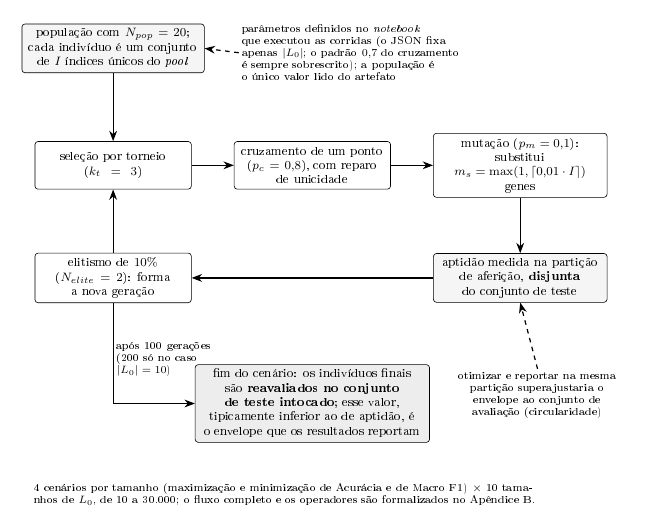
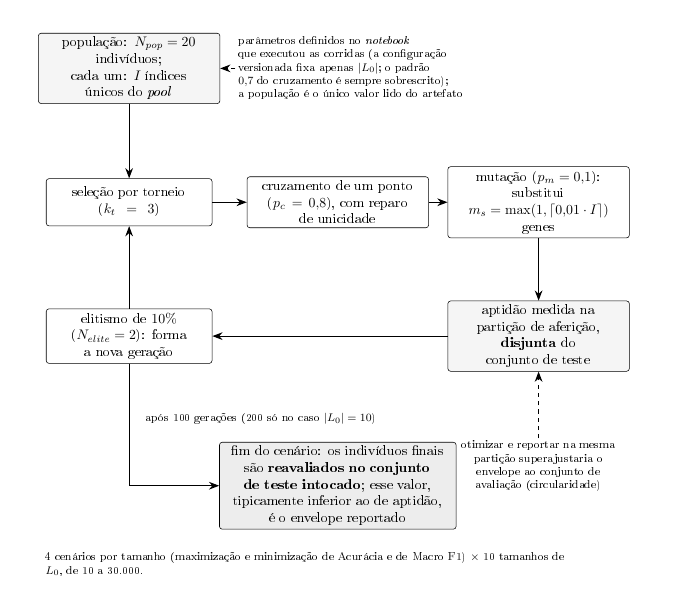
Apêndice B: passe de excelência (autocontido + figura do laço em corpo 12)
Ordem do autor, em loop até excelência acadêmica (figura + conteúdo +
fluidez + compreensão + rigor).

a2-ag/texto.tex reescrito: autocontido (sem refs a seções da tese, sem
individual_id, sem 'decisão D-002', sem nomes de formato de arquivo;
anti-circularidade explicada em linha, não referenciada); Formulação em
prosa contínua; proveniência consolidada em preâmbulo único preservando a
tripartição do laudo (notebook define; população e gerações conferidas
contra artefatos; população sem fonte de configuração); título com L_0 em
matemática; travessões pareados convertidos (R1); números conferidos
contra o canônico (2.000/4.000; 18,82/19,20; 30x40; 4 cenários x 10
tamanhos 10-30.000). Figura do laço inserida (fig:ap-ag-laco).

ACHADO SISTÊMICO: prévias da série eram em corpo 10; no corpo real da
tese (ppginf/book 12pt) o esq-ag-envelope quebrava — REDESENHADO para
12pt (larguras +25%, rótulo de saída realocado; apêndice completo
compila com 0 erros, overfull 0,7pt). O esq-lce do Apêndice A (já na
main) tinha a fórmula transbordando em 12pt — corrigido (58->64mm).
Esquemas 1/2/4/5 e drisl seguem calibrados em corpo 10: re-verificar em
12pt antes de inserir (pendência na NOTA). Prévias dos dois esquemas
inseridos regeneradas em corpo 12.

Claude-Session: https://claude.ai/code/session_01XdLdLTUXQGvJT9rjXrz2Gq

Changed region(s): [[0.0303, 0.2415, 0.9394, 0.966], [0.0303, 0.0302, 0.697, 0.1811]]

diff --git a/3-metodo/esquemas-propostos/esq-ag-envelope.tex b/3-metodo/esquemas-propostos/esq-ag-envelope.tex
@@ -1,69 +1,68 @@
 % ============================================================================
-% ESQUEMA PROPOSTO (banca, sugestão — não mergeado): o envelope por algoritmo
-% genético (Seção sec:metodo-l0-ag) como laço evolutivo + saída com
-% anti-circularidade. A prosa da seção carrega o laço inteiro em um
-% parágrafo; a figura o desdobra: população -> torneio -> cruzamento ->
-% mutação -> aptidão (partição de aferição) -> elitismo -> repete; ao fim,
-% reavaliação no teste intocado = o envelope reportado.
-%
-% Uso no Cap. 3 (dentro de um ambiente figure):
+% ESQUEMA PROPOSTO (banca): o envelope por algoritmo genético como laço
+% evolutivo + saída com anti-circularidade. Inserido no APÊNDICE B
+% (a2-ag/texto.tex) por ordem do autor (2026-08-23), dentro de figure:
 %   \input{3-metodo/esquemas-propostos/esq-ag-envelope}
-%   As citações Holland1975/Goldberg1989 ficam na prosa; a legenda pode
-%   remeter ao Apêndice ap:ag (fluxo e operadores formalizados).
+% A nota de rodapé NÃO remete ao apêndice (seria autorreferência) e não
+% cita nomes de arquivo (apêndice autocontido). As citações
+% Holland1975/Goldberg1989 ficam na prosa do Cap. 3.
 % Uso standalone (pré-visualização):
-%   \documentclass[tikz,border=6pt]{standalone}
+%   \documentclass[tikz,border=6pt,12pt]{standalone}
 %   \usetikzlibrary{arrows.meta, positioning}
 %   \begin{document}\input{esq-ag-envelope.tex}\end{document}
-%   (no modo standalone, troque as \ref{...} por texto fixo ou defina-as)
+% GEOMETRIA CALIBRADA PARA CORPO 12 (o corpo da tese, ppginf/book 12pt):
+% a primeira versão foi desenhada em corpo 10 e quebrou ao compilar no
+% corpo real — larguras e espaçamentos daqui assumem footnotesize de 10pt.
 % Requer apenas arrows.meta e positioning (já em packages.tex). Legível em
-% P&B: entrada = cinza claro; operação = branco; medição = cinza claro;
-% produto = cinza médio; anotação = texto pequeno com tracejado.
-% FREEZE respeitado: todos os números são os da própria Seção 3.5.2
-% (N_pop=20, 100/200 gerações, k_t=3, p_c=0,8, p_m=0,1, m_s, 10%,
-% N_elite=2, 4 cenários, 10 tamanhos, 10 a 30.000), nenhum novo.
+% P&B: entrada/medição = cinza claro; operação = branco; produto = cinza
+% médio; anotação = texto pequeno com tracejado.
+% FREEZE respeitado: todos os números são os da Seção 3.5.2 e do próprio
+% apêndice (N_pop=20, 100/200 gerações, k_t=3, p_c=0,8, p_m=0,1, m_s,
+% 10%, N_elite=2, 4 cenários, 10 tamanhos, 10 a 30.000), nenhum novo.
 % ============================================================================
 \begin{tikzpicture}[
     x=1cm, y=1cm,
-    caixa/.style={draw, rounded corners=2pt, align=center, text width=34mm,
-                  minimum height=11mm, inner sep=3pt, font=\footnotesize},
+    caixa/.style={draw, rounded corners=2pt, align=center, text width=44mm,
+                  minimum height=12mm, inner sep=3pt, font=\footnotesize},
     entrada/.style={caixa, fill=gray!8},
     medida/.style={caixa, fill=gray!8},
     produto/.style={caixa, fill=gray!14},
-    seta/.style={-{Stealth[length=2.4mm]}, thick},
+    seta/.style={-{Stealth[length=2.6mm]}, thick},
     rot/.style={font=\scriptsize, align=center, inner sep=2pt}
 ]
     % ------------------ população e proveniência da configuração -----------
-    \node[entrada, text width=40mm] (pop) at (0,0)
-        {população com $N_{pop}=20$;\\cada indivíduo é um conjunto\\
-         de $I$ índices únicos do \textit{pool}};
-    \node[rot, anchor=west, text width=54mm, align=left] (prov) at (2.9,-0.1)
+    \node[entrada] (pop) at (0,0)
+        {população: \mbox{$N_{pop}=20$} indivíduos;\\
+         cada um: $I$ índices\\únicos do \textit{pool}};
+    \node[rot, anchor=west, text width=58mm, align=left] (prov) at (2.7,0)
         {parâmetros definidos no \textit{notebook}\\
-         que executou as corridas (o JSON fixa\\
-         apenas $|L_0|$; o padrão $0{,}7$ do cruzamento\\
-         é sempre sobrescrito); a população é\\
-         o único valor lido do artefato};
+         que executou as corridas (a configuração\\
+         versionada fixa apenas $|L_0|$; o padrão\\
+         $0{,}7$ do cruzamento é sempre sobrescrito);\\
+         a população é o único valor lido do artefato};
 
     % ------------------ o laço por geração ---------------------------------
-    \node[caixa] (torneio) at (0,-2.7)
+    \node[caixa, text width=40mm] (torneio) at (0,-3.4)
         {seleção por torneio\\($k_t=3$)};
-    \node[caixa] (cruz) at (4.6,-2.7)
+    \node[caixa] (cruz) at (5.3,-3.4)
         {cruzamento de um ponto\\($p_c=0{,}8$), com reparo\\de unicidade};
-    \node[caixa, text width=38mm] (mut) at (9.4,-2.7)
-        {mutação (\mbox{$p_m=0{,}1$}):\\
-         substitui \mbox{$m_s=\max(1,\lceil 0{,}01\cdot I\rceil)$}\\
-         genes};
-    \node[medida, text width=38mm] (apt) at (9.4,-5.3)
-        {aptidão medida na partição\\de aferição, \textbf{disjunta}\\do
-         conjunto de teste};
-    \node[caixa] (elit) at (0,-5.3)
-        {elitismo de $10\%$\\($N_{elite}=2$): forma\\a nova geração};
+    \node[caixa] (mut) at (10.4,-3.4)
+        {mutação (\mbox{$p_m=0{,}1$}): substitui\\
+         \mbox{$m_s=\max(1,\lceil 0{,}01\cdot I\rceil)$} genes};
+    \node[medida] (apt) at (10.4,-6.8)
+        {aptidão medida na\\partição de aferição,\\
+         \textbf{disjunta} do\\conjunto de teste};
+    \node[caixa, text width=40mm] (elit) at (0,-6.8)
+        {elitismo de $10\%$\\(\mbox{$N_{elite}=2$}): forma\\a nova geração};
 
     % ------------------ saída: anti-circularidade --------------------------
-    \node[produto, text width=52mm] (reaval) at (4.6,-8.2)
-        {fim do cenário: os indivíduos finais são \textbf{reavaliados no
-         conjunto de teste intocado}; esse valor, tipicamente inferior ao
-         de aptidão, é o envelope que os resultados reportam};
-    \node[rot, text width=40mm, anchor=north] (circ) at (9.8,-7.4)
+    \node[produto, text width=58mm] (reaval) at (5.3,-10.6)
+        {fim do cenário: os indivíduos finais\\
+         são \textbf{reavaliados no conjunto}\\
+         \textbf{de teste intocado}; esse valor,\\
+         tipicamente inferior ao de aptidão,\\
+         é o envelope reportado};
+    \node[rot, text width=44mm, anchor=north] (circ) at (10.4,-9.4)
         {otimizar e reportar na mesma partição superajustaria o envelope ao
          conjunto de avaliação (circularidade)};
 
@@ -75,16 +74,15 @@
     \draw[seta] (mut) -- (apt);
     \draw[seta] (apt) -- (elit);
     \draw[seta] (elit) -- (torneio);
-    \draw[seta] (elit.south) |- node[rot, anchor=west, pos=0.28,
-        text width=30mm, align=left]
-        {após 100 gerações\\(200 só no caso \mbox{$|L_0|=10$})}
-        (reaval.west);
+    % o rótulo da saída fica no vão entre o elitismo e a caixa final,
+    % à direita da descida — fora do caminho e de qualquer caixa
+    \draw[seta] (elit.south) |- (reaval.west);
+    \node[rot, anchor=west] at (0.35,-8.9)
+        {após 100 gerações (200 só no caso \mbox{$|L_0|=10$})};
     \draw[seta, dashed] (circ.north) -- (apt.south);
 
-    % ------------------ cenários e remissão ---------------------------------
-    \node[rot, anchor=west, text width=118mm, align=left] at (-1.9,-10.3)
+    % ------------------ cenários -------------------------------------------
+    \node[rot, anchor=west, text width=132mm, align=left] at (-2.2,-12.6)
         {4 cenários por tamanho (maximização e minimização de Acurácia e de
-         Macro F1) $\times$ 10 tamanhos de $L_0$, de 10 a 30.000; o fluxo
-         completo e os operadores são formalizados no
-         Apêndice~\ref{ap:ag}.};
+         Macro F1) $\times$ 10 tamanhos de $L_0$, de 10 a 30.000.};
 \end{tikzpicture}

diff --git a/a2-ag/texto.tex b/a2-ag/texto.tex
@@ -1,58 +1,81 @@
-\chapter{Algoritmo Genético para Otimização de L0}
+\chapter{Algoritmo Genético para Otimização de \texorpdfstring{$L_0$}{L0}}
 \label{ap:ag}
+
+Este apêndice formaliza o algoritmo genético (AG) usado para estimar o
+envelope de desempenho da composição do conjunto inicial $L_0$: os limites
+superior e inferior que uma composição muito boa, ou muito ruim, consegue
+alcançar. Seguem a formulação, os operadores com seus parâmetros e sua
+proveniência, e o laço completo, resumido na Figura~\ref{fig:ap-ag-laco}.
 
 \section{Formulação}
 
-Indivíduo: conjunto de $I$ índices únicos do \textit{pool} ($L_0$ candidato).
-Aptidão: desempenho (Acurácia ou Macro F1) do classificador PVBin treinado no
-indivíduo e avaliado em partição de \textbf{aferição} disjunta do conjunto de
-teste (protocolo anticircularidade; ver Seção~\ref{sec:res-l0-replay} para a
-quantificação do viés do protocolo ingênuo). Quatro cenários: maximização e
-minimização de cada métrica: o par (max, min) delimita o envelope empírico
-de desempenho alcançável pela composição.
+Cada \textbf{indivíduo} é um conjunto de $I$ índices únicos do
+\textit{pool}, ou seja, um $L_0$ candidato de tamanho fixo. A
+\textbf{aptidão} de um indivíduo é o desempenho (Acurácia ou Macro F1) do
+classificador leve PVBin treinado nesse candidato. A aptidão é medida em
+uma partição de \textbf{aferição}, reservada para este fim e disjunta do
+conjunto de teste, porque
+otimizar e reportar na mesma partição superajustaria o envelope ao conjunto
+de avaliação; por isso, ao final de cada cenário, o melhor indivíduo é
+\textbf{reavaliado no conjunto de teste intocado}, e é esse valor,
+tipicamente inferior ao de aptidão, que se reporta como envelope.
+
+São otimizados \textbf{quatro cenários} por tamanho (maximização e
+minimização de cada uma das duas métricas), para dez tamanhos de $L_0$
+entre 10 e 30.000: o par de extremos delimita o envelope empírico de
+desempenho alcançável pela composição.
 
 \section{Operadores e parâmetros}
 
+Salvo indicação em contrário, os parâmetros abaixo foram definidos no
+\textit{notebook} que executou as corridas, que sempre os passa ao
+algoritmo (a configuração versionada fixa apenas o tamanho de $L_0$).
+População e gerações foram, além disso, conferidas contra os artefatos das
+corridas; a população é o único parâmetro sem fonte de configuração, e o
+valor reportado é o lido do artefato.
+
 \begin{itemize}
-  \item \textbf{População} $N_{pop}=20$; \textbf{gerações} 100 por cenário
-  (200 no caso $|L_0|=10$, o único que difere), o que dá 2.000 avaliações
-  supervisionadas por cenário (4.000 no caso $|L_0|=10$); valores
-  confirmados contra o artefato da corrida canônica
-  (\texttt{individual\_id} 0..19). A população é o único parâmetro sem
-  fonte de configuração: o valor reportado (20) é o do artefato da corrida,
-  não o da configuração versionada. No caso $|L_0|=10$, a tabela do
-  Capítulo~\ref{ch:resultados-l0} reporta, como nas demais células, a
-  100\textsuperscript{a} geração ($18{,}82\%$); a corrida desse caso segue
+  \item \textbf{população e gerações}: $N_{pop}=20$ indivíduos por 100
+  gerações em cada cenário, o que dá 2.000 avaliações supervisionadas por
+  cenário. O caso $|L_0|=10$ é o único que difere: corre por 200 gerações
+  (4.000 avaliações). Nos resultados, esse caso é reportado, como os
+  demais, na 100\textsuperscript{a} geração ($18{,}82\%$); a corrida segue
   até a 200\textsuperscript{a}, em que o melhor indivíduo alcança
-  $19{,}20\%$. A reexecução independente usa
-  configuração reduzida de $N_{pop}=30$ por 40 gerações (decisão D-002 do
-  registro de decisões);
-  \item \textbf{seleção}: torneio de tamanho $k_t=3$, definido no
-  \textit{notebook} que executou as corridas, que sempre o passa (o arquivo
-  de configuração em JSON fixa apenas o tamanho de $L_0$);
-  \item \textbf{cruzamento}: um ponto sobre a lista de índices, com
-  probabilidade $p_c=0{,}8$ definida no \textit{notebook} da corrida (o
-  valor padrão da classe é $0{,}7$, sempre sobrescrito pelo
-  \textit{notebook}), seguido de \emph{reparo de unicidade} (índices
-  repetidos são substituídos por sorteio até restaurar $|L_0|=I$);
-  \item \textbf{mutação}: com probabilidade $p_m=0{,}1$, definida no
-  \textit{notebook} da corrida, substituição de
-  $m_s=\max(1,\lceil 0{,}01 \cdot I\rceil)$ genes por índices inéditos (a
-  fórmula de $m_s$ é o ramo dinâmico do \textit{notebook});
-  \item \textbf{elitismo}: $10\%$, definido no \textit{notebook}
-  ($N_{elite}=2$, decorrente da população de 20).
+  $19{,}20\%$;
+  \item \textbf{seleção}: torneio de tamanho $k_t=3$;
+  \item \textbf{cruzamento}: de um ponto sobre a lista de índices, com
+  probabilidade $p_c=0{,}8$ (o valor padrão da implementação é $0{,}7$,
+  sempre sobrescrito na execução), seguido de \emph{reparo de unicidade}:
+  índices repetidos são substituídos por sorteio até restaurar $|L_0|=I$;
+  \item \textbf{mutação}: com probabilidade $p_m=0{,}1$, substitui
+  $m_s=\max(1,\lceil 0{,}01 \cdot I\rceil)$ genes por índices inéditos;
+  \item \textbf{elitismo}: $10\%$ da população ($N_{elite}=2$).
 \end{itemize}
+
+A reexecução independente do envelope, feita para checar a sensibilidade do
+resultado à própria busca, usa configuração reduzida: $N_{pop}=30$ por 40
+gerações.
 
 \section{Pseudocódigo}
 
 \begin{enumerate}
   \item Inicializar $N_{pop}$ indivíduos por amostragem uniforme sem reposição.
-  \item Avaliar aptidão de todos na partição de aferição.
-  \item Por geração: copiar elite; completar a população por
+  \item Avaliar a aptidão de todos na partição de aferição.
+  \item Por geração: copiar a elite; completar a população por
   torneio $\to$ cruzamento $\to$ reparo $\to$ mutação; reavaliar.
   \item Ao final, \textbf{reavaliar o melhor indivíduo no conjunto de teste
   intocado}; o valor reportado como envelope é este, não a aptidão.
 \end{enumerate}
+
+\begin{figure}[htbp]
+    \centering
+    \input{3-metodo/esquemas-propostos/esq-ag-envelope}
+    \caption{O laço do algoritmo genético e a saída anticircular, em resumo
+    visual: a aptidão que orienta a busca é medida na partição de aferição,
+    disjunta do teste, e o envelope reportado é o do melhor indivíduo
+    reavaliado no conjunto de teste intocado.}
+    \label{fig:ap-ag-laco}
+\end{figure}
 
 A implementação de referência da reexecução e seus resultados acompanham o
 repositório de código da tese.

diff --git a/3-metodo/esquemas-propostos/esq-lce.tex b/3-metodo/esquemas-propostos/esq-lce.tex
@@ -67,7 +67,9 @@
     \draw[seta, dashed] (1.6,4.15) -- (1.4,3.5);
 
     % ---------------- painel direito: fórmula e leitura --------------------
-    \node[caixa, text width=58mm] (formula) at (10.6,3.5)
+    % 64mm: em corpo 12 (o corpo real da tese) a linha da AUC_ideal media
+    % ~62mm e transbordava a caixa de 58mm — achado do teste em 12pt
+    \node[caixa, text width=64mm] (formula) at (10.5,3.5)
         {$\displaystyle \mathrm{LCE}=\frac{\mathrm{AUC}_{\mathrm{real}}}{\mathrm{AUC}_{\mathrm{ideal}}}$\\[3pt]
          \mbox{$\mathrm{AUC}_{\mathrm{ideal}}=\mathrm{Perf}_{\mathrm{baseline}}\times(L_{\mathrm{final}}-L_{\mathrm{ideal},0})$}\\[2pt]
          (Equação~\ref{eq:ap-lce})};

diff --git a/3-metodo/esquemas-propostos/NOTA-esquemas.md b/3-metodo/esquemas-propostos/NOTA-esquemas.md
@@ -183,6 +183,49 @@ avisado por tarefa na caixa. O DoD completo (tese inteira compilando com a
 figura) fica com a cruzada/principal — este contêiner não tem a toolchain
 completa do ppginf.
 
+## Passe de excelência no Apêndice B (ordem do autor, 2026-08-23)
+
+O autor ordenou um passe completo no Apêndice B (`a2-ag/texto.tex`) — as
+rodadas de forma, humanização, fluidez, AUTOCONTENÇÃO ("tire as referências
+de coisas da tese se tiver e arquivos"), verificação dos números e a
+inserção da figura do laço — em LOOP até a excelência acadêmica (figura +
+conteúdo + fluidez + compreensão + rigor).
+
+**Texto** (base: a versão da main, que já continha o lote A2 ratificado):
+- Autocontenção: removidos `\ref{sec:res-l0-replay}` e
+  `\ref{ch:resultados-l0}` (substituídos por explicação em linha e "nos
+  resultados"), o campo de artefato `individual_id 0..19`, o código de
+  governança "decisão D-002" e o nome de formato "JSON" ("a configuração
+  versionada"). A anti-circularidade agora é EXPLICADA onde aparece, não
+  referenciada.
+- Humanização/fluidez: a Formulação telegráfica ("Indivíduo: ...
+  Aptidão: ...") virou prosa contínua; a repetição de "definido no
+  notebook" (4 ocorrências) foi consolidada em um preâmbulo único de
+  proveniência que preserva a tripartição do laudo ratificado (notebook
+  define; população e gerações conferidas contra artefatos; população sem
+  fonte de configuração); título do capítulo com $L_0$ em matemática
+  (`\texorpdfstring`); um par de travessões convertido em parênteses (R1).
+- Números conferidos contra o canônico da Seção 3.5.2 e o laudo:
+  20×100=2.000, 20×200=4.000, k=3, 0,8 (padrão 0,7 sobrescrito), 0,1,
+  m_s, 10% (N_elite=2), 18,82%/19,20%, reexecução 30×40, 4 cenários ×
+  10 tamanhos (10 a 30.000). Nenhum número novo.
+- Figura inserida no fim (fig:ap-ag-laco), com legenda amarrando aptidão →
+  aferição → reavaliação no teste intocado.
+
+**ACHADO SISTÊMICO — corpo 12**: as prévias da série foram feitas em corpo
+10; ao compilar o apêndice inteiro no corpo REAL da tese (ppginf = book
+12pt), o `esq-ag-envelope` quebrou (caixas transbordando, rótulo colidindo
+com a caixa final). Foi REDESENHADO para corpo 12 (larguras +25%,
+espaçamentos maiores, rótulo de saída realocado; 0 erros, overfull 0,7pt =
+imperceptível). O `esq-lce`, JÁ INTEGRADO ao Apêndice A na main, tinha o
+mesmo defeito em grau menor (a fórmula transbordava a caixa em ~4mm) —
+corrigido nesta branch (caixa 58→64mm; o principal deve integrar).
+**Pendência para a cruzada**: os esquemas 1, 2, 4 e 5 (gate-e-régua, mapa
+experimental, preproc, l0-três-origens) e o esq-drisl continuam calibrados
+em corpo 10 — re-verificar em corpo 12 ANTES de qualquer inserção na tese.
+As prévias `preview-esq-ag-envelope.png` e `preview-esq-lce.png` agora são
+renders em corpo 12.
+
 ## Loop de melhoria com goal (registro, como a tarefa pede)
 
 Goal: "muito boa e ilustrativa" = fluxo inequívoco, rótulos claros, coerente

diff --git a/coordenacao/caixa/20260823-2100_banca_principal_entrega_passe-apendice-b-e-fix-12pt.aberta.md b/coordenacao/caixa/20260823-2100_banca_principal_entrega_passe-apendice-b-e-fix-12pt.aberta.md
@@ -1,0 +1,34 @@
+---
+de: banca
+para: principal
+tipo: tarefa
+acao_esperada: integrar na main (1) o Apêndice B reescrito com a figura do laço e (2) a CORREÇÃO do esq-lce do Apêndice A (que já está na main com a fórmula transbordando em corpo 12); validar com a compilação completa (DoD IX) antes do merge
+referencia: a2-ag/texto.tex + esq-ag-envelope.tex + esq-lce.tex · branch banca/esquemas-tikz-metodo · ordem do autor (2026-08-23)
+criada_em: 2026-08-23T21:00:00Z
+---
+Conclusão do passe no Apêndice B (claim 2005 de hoje; ordem direta do
+autor, com loop até excelência acadêmica). Ele já viu e recebeu as 3
+páginas renderizadas.
+
+1. **`a2-ag/texto.tex` reescrito**: autocontido (sem \ref para seções da
+   tese, sem individual_id, sem "decisão D-002", sem nomes de formato de
+   arquivo; anti-circularidade explicada em linha); Formulação em prosa
+   contínua; proveniência consolidada em preâmbulo único que preserva a
+   tripartição do laudo (notebook define; população e gerações conferidas
+   contra artefatos; população sem fonte de configuração); números
+   conferidos (2.000/4.000; 18,82/19,20; 30×40; 4×10 tamanhos 10–30.000);
+   figura do laço inserida (fig:ap-ag-laco).
+2. **`esq-ag-envelope.tex` REDESENHADO PARA CORPO 12**: a primeira versão
+   (prévia em corpo 10) quebrava no corpo real da tese. Compilado como
+   apêndice completo em 12pt/textwidth ~15cm: 0 erros, overfull 0,7pt.
+3. **ATENÇÃO — correção que afeta a MAIN**: o `esq-lce` do Apêndice A (já
+   integrado) tem a fórmula transbordando a caixa em corpo 12 (~4mm).
+   Corrigido nesta branch (caixa 58→64mm, coluna reposicionada). Integrar
+   junto.
+4. **Pendência sistêmica registrada na NOTA**: esquemas 1/2/4/5 e o
+   esq-drisl continuam calibrados em corpo 10 — re-verificar em 12pt antes
+   de qualquer inserção. As prévias dos dois esquemas inseridos agora são
+   renders de corpo 12.
+
+O que não valido daqui: a tese inteira (sem toolchain ppginf) — a
+compilação completa fica com a sua integração/cruzada.
